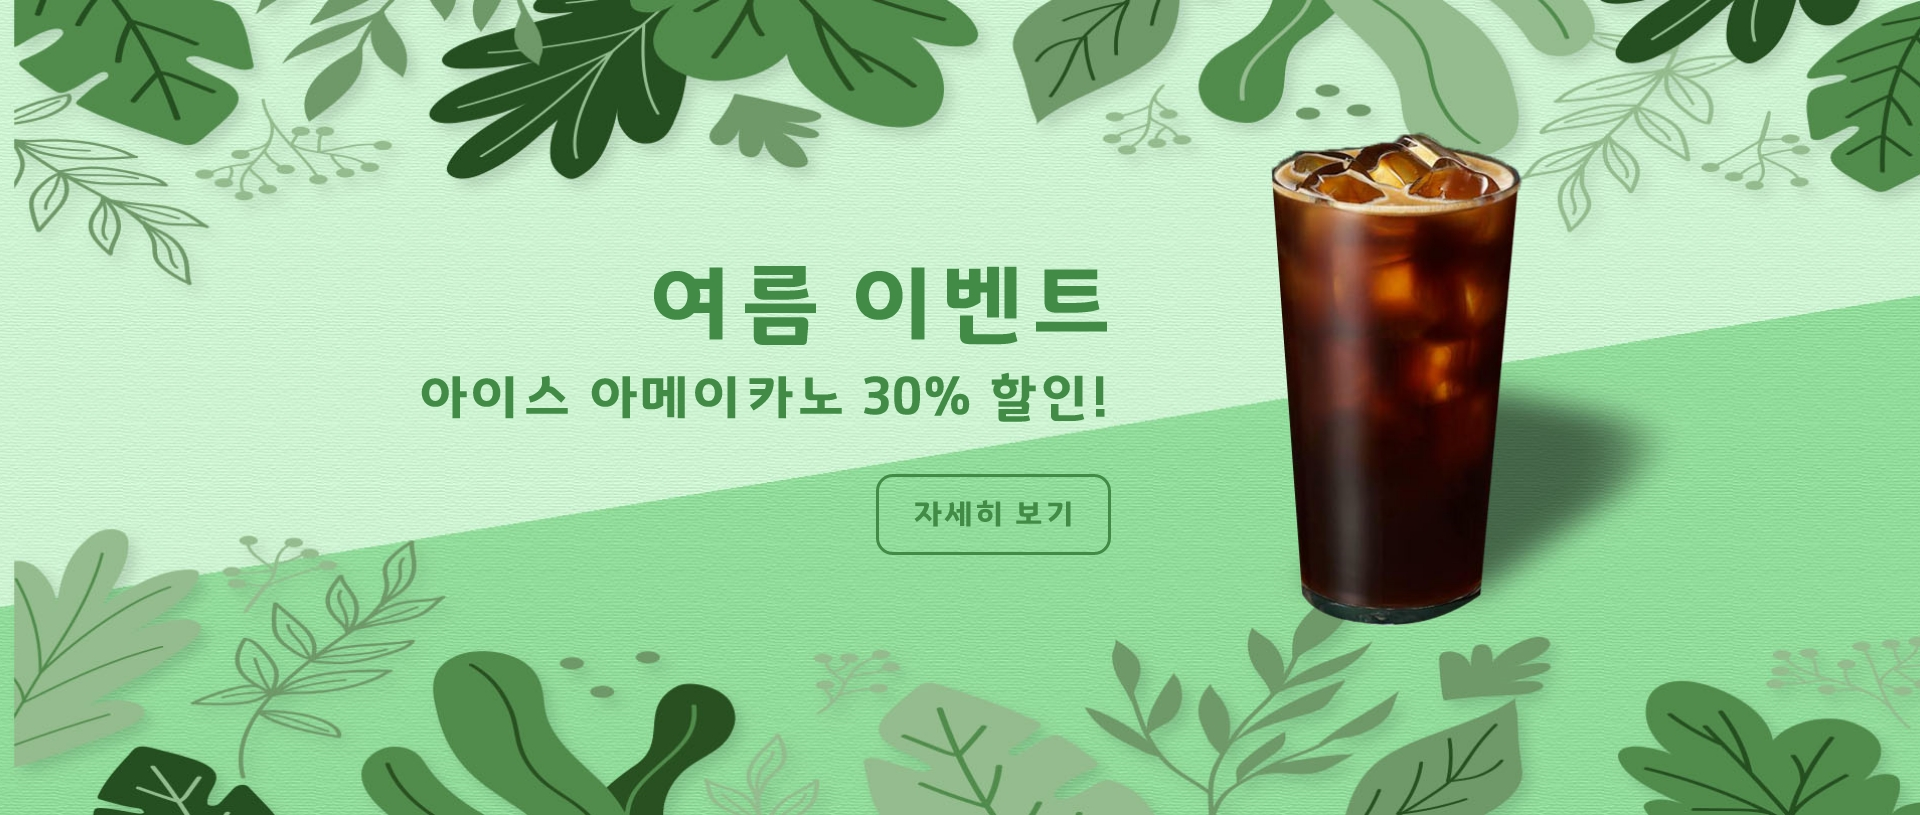
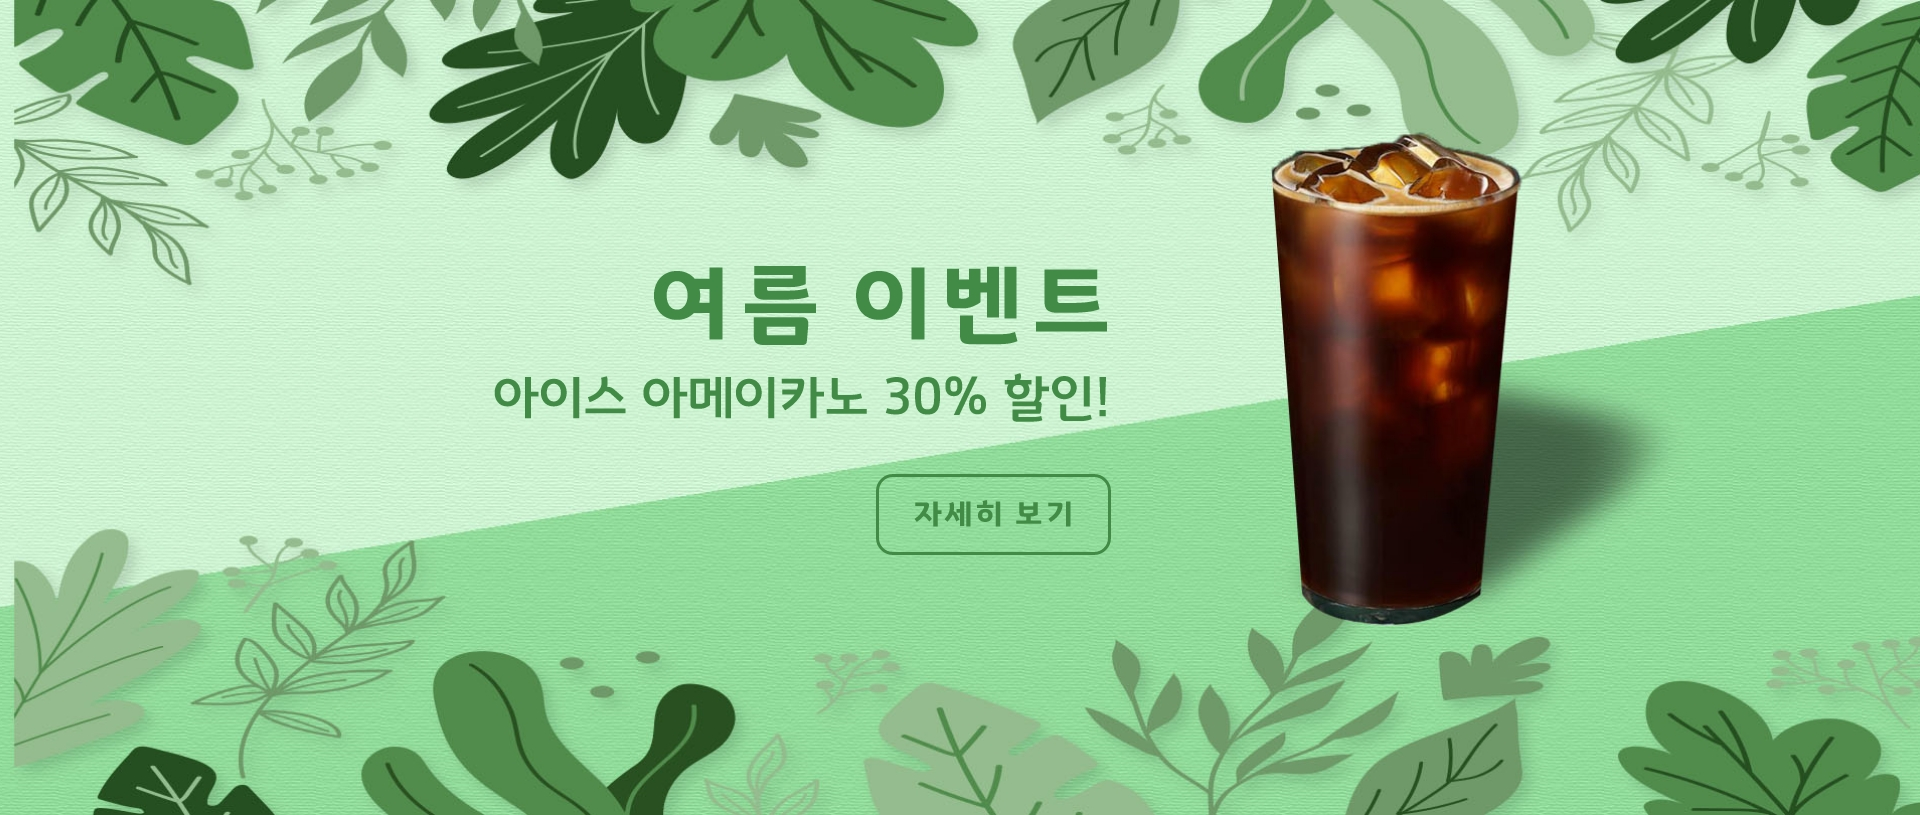
Add files via upload

Changed region(s): [[0.2188, 0.4601, 0.5938, 0.5215]]

diff --git a/prohect5/p5-1.html b/prohect5/p5-1.html
@@ -28,7 +28,6 @@
             width: 1800px;
             margin: 0 auto;
         }
-
         .jua-regular {
             font-family: "Jua", sans-serif;
             font-weight: 400;
@@ -38,14 +37,14 @@
         .noto-sans-kr-uniquifier {
             font-family: "Noto Sans KR", sans-serif;
             font-optical-sizing: auto;
-            font-weight: 400;
+            font-weight: 500;
             font-style: normal;
         }
 
         .main1 {
             position: relative;
             top: 0;
-            height: 1000px;
+            height: 920px;
             margin-bottom: 0px;
             padding: 0px 0px;
             z-index: 0;
@@ -71,14 +70,37 @@
             height: 100%;
             
         }
-
+        .topp{
+            display: flex;
+            justify-content: space-between;
+            width: 1650px;
+            margin: 0 auto;
+            padding-top: 10px;
+            position: absolute;
+            z-index: 9;
+            top: 15px;
+        }
+        .top a{
+            margin-left: 1430px ;
+            text-decoration: none ;
+            color: rgb(70, 70, 70);
+            position: relative ;
+            display: inline-block;
+            font-size: 15px;
+        }
+        .top1 a{
+            margin-right: 100px;
+            color: rgb(70, 70, 70);
+            position: relative ;
+            display: inline-block;
+            font-size: 15px;
+        }
         header {
             position: absolute;
             top: 5%;
             left: 50%;
             transform: translateX(-50%);
             z-index: 999;
-
         }
 
         .hwrapper {
@@ -92,17 +114,19 @@
         .logo {
             margin-right: 130px;
         }
-
+        nav{
+            padding-right: 300px;
+        }
         nav ul li {
             list-style: none;
             display: inline-block;
-            margin: 0px 64px;
+            margin: 0px 50px;
+            
         }
-
         a {
             text-decoration: none;
-            font-size: 35px;
-            color: black;
+            font-size: 25px;
+            color: rgb(70, 70, 70);
         }
 
         .main2 {
@@ -254,6 +278,26 @@
             height: auto;
             margin: auto;
         }
+        .topp{
+            width: 95%;
+            margin: auto;
+            padding-top: 0px;
+            position: absolute;
+            z-index: 9;
+            top: 0px;
+            margin-right: 53rem;
+        }
+        .top a{
+            margin-left: 11.5rem;
+            font-size: 0.7rem;
+        }
+        .top1 a{
+            margin-right: 11.5rem;
+            font-size: 0.7rem;
+        }
+        nav{
+            padding-right: 0.1rem;
+        }
         nav ul li {
             margin: 0px 15px;
             text-align: center;
@@ -369,9 +413,19 @@
 
 <body>
     <div class="main1">
-        <div class="swiper mySwiper">
+        <div class="hwrapper">
+        <div class="topp noto-sans-kr-uniquifier"> 
+            <div class="top">
+                <a href="#"> 로그인 </a>
+            </div>
+            <div class="top1">
+                <a href="#"> 회원가입 </a>
+            </div>
+        </div>
+    </div>
+        <div class="swiper mySwiper">    
             <div class="swiper-wrapper">
-                <div class="m1-1 swiper-slide"><img src="design/mainimg3.jpg"></div>
+                <div class="m1-1 swiper-slide"><img src="design/222.jpg"></div>
                 <div class="m1-2 swiper-slide"><img src="design/main2.jpg"></div>
                 <div class="m1-3 swiper-slide"><img src="design/main3.jpg"></div>
             </div>
@@ -384,7 +438,7 @@
                             <img src="design/logo.png" width="270" height="70">
                         </div>
                     </a>
-                    <nav class="jua-regular">
+                    <nav class="noto-sans-kr-uniquifier">
                         <ul>
                             <li> <a href="#"> 브랜드 소개 </a> </li>
                             <li> <a href="#"> 메뉴 </a> </li>
